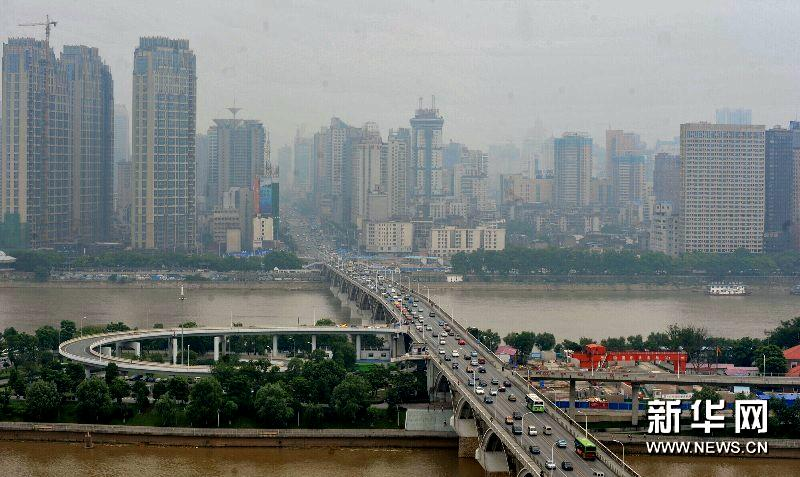
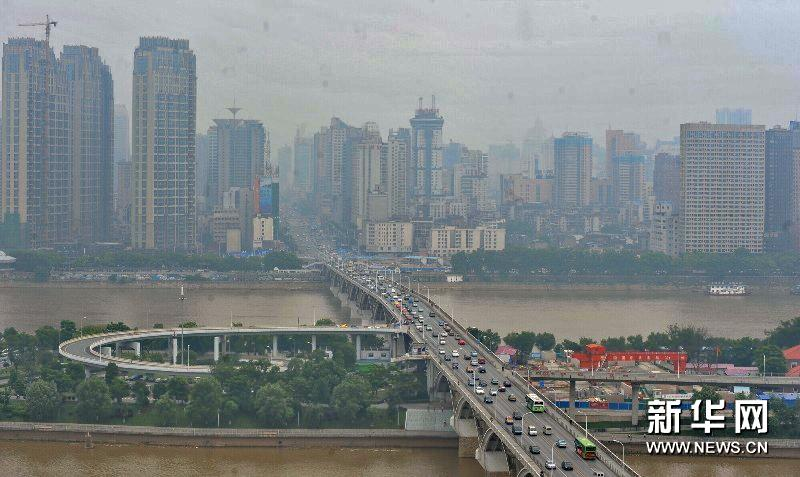
完全胜利（这个权重文件训练EPOCH=40，但实际上20左右就收敛了）

diff --git a/dehazenet.py b/dehazenet.py
@@ -473,12 +473,12 @@ class Main:
         train_driver.save('defog4_noaug_enoch.pth')
 
     @classmethod
-    def test(cls, img_path="dehaze_1.jpg", result_path="dehaze_1_result.jpg"):
+    def test(cls, img_path="dehaze_4.jpg", result_path="dehaze_4_result.jpg"):
         # 加载图像
         img = Image.open(img_path).convert("RGB")
         # 初始化模型
         driver = DehazeNetDriver(DehazeNet())
-        driver.open("defog4_noaug.pth")  # 加载预训练权重
+        driver.open("defog4_noaug_enoch.pth")  # 加载预训练权重
         # 执行去雾
         runner = DehazeNetRunner()
         result = runner.forward(img, driver)
@@ -491,4 +491,5 @@ class Main:
 import typer
 if __name__ == "__main__":
     # Main.dataset()
-    typer.run(Main.train)
+    # typer.run(Main.train)
+    typer.run(Main.test)
